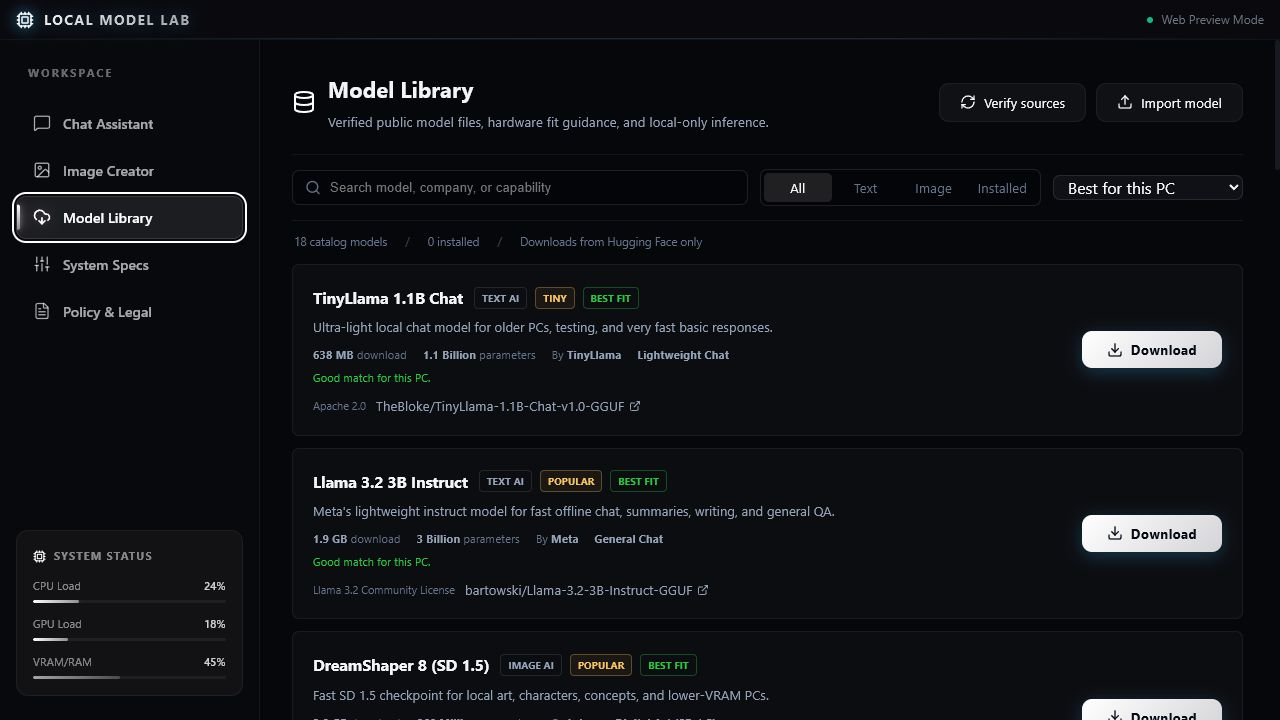
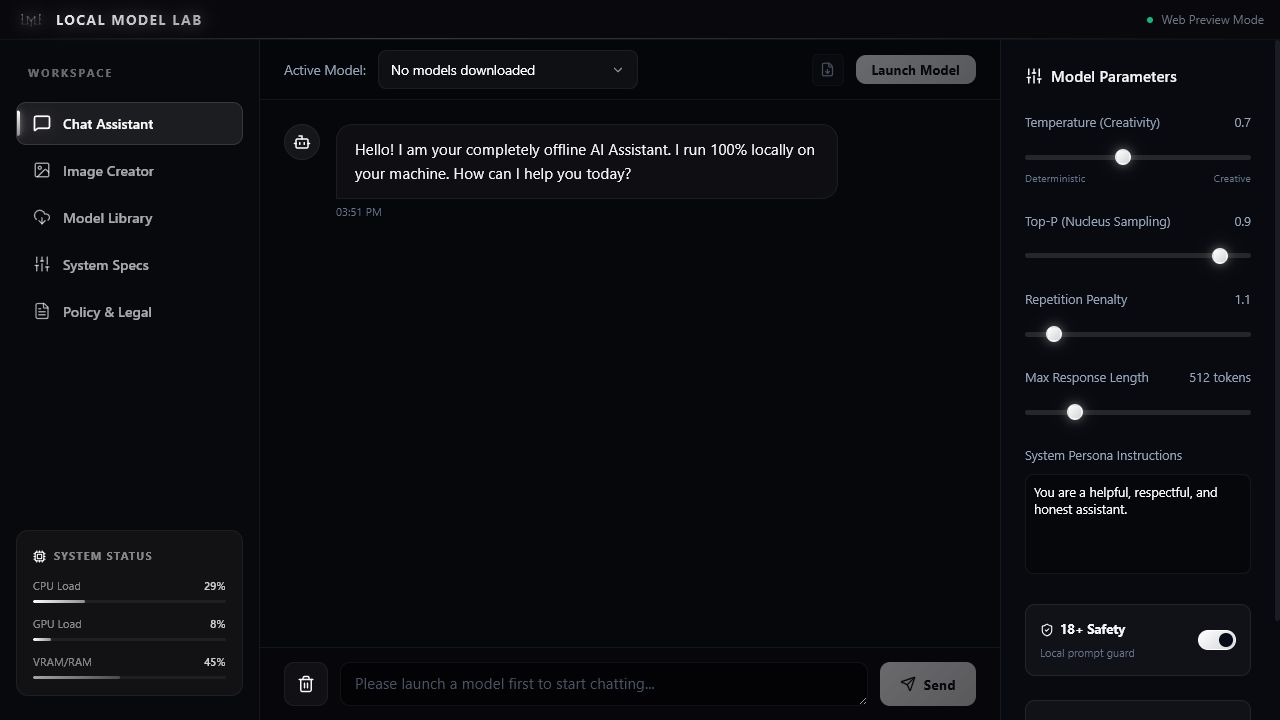
Apply final Local Model Lab branding

diff --git a/acceptable-use.html b/acceptable-use.html
@@ -1,5 +1,5 @@
-<!doctype html><html lang="en"><head><meta charset="utf-8"><meta name="viewport" content="width=device-width, initial-scale=1"><meta name="description" content="Local Model Lab Acceptable Use Policy."><link rel="icon" href="assets/favicon.svg" type="image/svg+xml"><link rel="stylesheet" href="assets/styles.css"><title>Acceptable Use Policy | Local Model Lab</title></head><body>
-<a class="skip-link" href="#main">Skip to content</a><header class="site-header"><a class="brand" href="index.html"><span class="brand-mark">LM</span><span>Local Model Lab</span></a><button class="menu-button" type="button" aria-expanded="false" aria-controls="site-nav">Menu</button><nav id="site-nav" class="site-nav"><a href="index.html#features">Features</a><a href="privacy.html">Privacy</a><a href="terms.html">Terms</a><a href="licenses.html">Licenses</a></nav></header>
+<!doctype html><html lang="en"><head><meta charset="utf-8"><meta name="viewport" content="width=device-width, initial-scale=1"><meta name="description" content="Local Model Lab Acceptable Use Policy."><link rel="icon" href="assets/favicon.ico" sizes="any"><link rel="apple-touch-icon" href="assets/logo.png"><link rel="stylesheet" href="assets/styles.css"><title>Acceptable Use Policy | Local Model Lab</title></head><body>
+<a class="skip-link" href="#main">Skip to content</a><header class="site-header"><a class="brand" href="index.html"><img class="brand-mark" src="assets/logo.png" alt=""><span>Local Model Lab</span></a><button class="menu-button" type="button" aria-expanded="false" aria-controls="site-nav">Menu</button><nav id="site-nav" class="site-nav"><a href="index.html#features">Features</a><a href="privacy.html">Privacy</a><a href="terms.html">Terms</a><a href="licenses.html">Licenses</a></nav></header>
 <main id="main"><header class="legal-hero"><p class="eyebrow">Safety</p><h1>Acceptable Use Policy</h1><p>Running a model locally does not remove legal or ethical responsibilities. These rules apply even when a safety switch is disabled.</p><div class="legal-meta"><span>Effective July 9, 2026</span><span>Version 1.0</span></div></header>
 <div class="legal-layout"><nav class="legal-toc" aria-label="On this page"><a href="#principles">Principles</a><a href="#prohibited">Prohibited use</a><a href="#sexual">Sexual content</a><a href="#cyber">Cyber safety</a><a href="#high-impact">High-impact decisions</a><a href="#rights">Rights and identity</a><a href="#controls">Safety controls</a><a href="#reporting">Reporting</a></nav>
 <article class="legal-copy">
@@ -12,4 +12,4 @@
 <h2 id="controls">7. Safety controls and limitations</h2><p>The local prompt guard is a limited keyword and pattern-based control. It can miss harmful requests and may occasionally block benign ones. Model behavior varies. Keep the guard enabled when the device is shared, supervise younger users, review output, and apply stricter controls where your context requires them.</p><p class="notice">A model described as uncensored or abliterated still remains subject to this policy, applicable law, and its upstream license.</p>
 <h2 id="reporting">8. Reporting concerns</h2><p>Report security defects, broken catalog links, license conflicts, or policy issues through the official GitHub repository after publication. Do not upload illegal content, private prompts, personal data, credentials, or sensitive paths to a public issue. Catalog entries may be removed while a report is reviewed.</p>
 </article></div></main>
-<footer class="site-footer"><div><a class="brand" href="index.html"><span class="brand-mark">LM</span><span>Local Model Lab</span></a><p>Local control comes with local responsibility.</p></div><nav><a href="privacy.html">Privacy</a><a href="terms.html">Terms</a><a href="acceptable-use.html">Acceptable Use</a><a href="licenses.html">Licenses</a></nav><p class="copyright">Copyright 2026 Local Model Lab. Third-party models retain their own licenses.</p></footer><script src="assets/site.js" defer></script></body></html>
+<footer class="site-footer"><div><a class="brand" href="index.html"><img class="brand-mark" src="assets/logo.png" alt=""><span>Local Model Lab</span></a><p>Local control comes with local responsibility.</p></div><nav><a href="privacy.html">Privacy</a><a href="terms.html">Terms</a><a href="acceptable-use.html">Acceptable Use</a><a href="licenses.html">Licenses</a></nav><p class="copyright">Copyright 2026 Local Model Lab. Third-party models retain their own licenses.</p></footer><script src="assets/site.js" defer></script></body></html>

diff --git a/index.html b/index.html
@@ -8,14 +8,14 @@
   <meta property="og:title" content="Local Model Lab">
   <meta property="og:description" content="Run AI locally. Private chat, image generation, and verified model downloads for Windows.">
   <meta property="og:type" content="website">
-  <link rel="icon" href="assets/favicon.svg" type="image/svg+xml">
+  <link rel="icon" href="assets/favicon.ico" sizes="any"><link rel="apple-touch-icon" href="assets/logo.png">
   <link rel="stylesheet" href="assets/styles.css">
   <title>Local Model Lab | Run AI locally</title>
 </head>
 <body>
   <a class="skip-link" href="#main">Skip to content</a>
   <header class="site-header">
-    <a class="brand" href="index.html" aria-label="Local Model Lab home"><span class="brand-mark">LM</span><span>Local Model Lab</span></a>
+    <a class="brand" href="index.html" aria-label="Local Model Lab home"><img class="brand-mark" src="assets/logo.png" alt=""><span>Local Model Lab</span></a>
     <button class="menu-button" type="button" aria-expanded="false" aria-controls="site-nav">Menu</button>
     <nav id="site-nav" class="site-nav" aria-label="Primary navigation">
       <a href="#experience">Experience</a>
@@ -116,7 +116,7 @@
   </main>
 
   <footer class="site-footer">
-    <div><a class="brand" href="index.html"><span class="brand-mark">LM</span><span>Local Model Lab</span></a><p>Run AI locally.</p></div>
+    <div><a class="brand" href="index.html"><img class="brand-mark" src="assets/logo.png" alt=""><span>Local Model Lab</span></a><p>Run AI locally.</p></div>
     <nav aria-label="Legal links"><a href="privacy.html">Privacy</a><a href="terms.html">Terms</a><a href="acceptable-use.html">Acceptable Use</a><a href="licenses.html">Licenses</a></nav>
     <p class="copyright">Copyright 2026 Local Model Lab. Third-party models retain their own licenses.</p>
   </footer>

diff --git a/licenses.html b/licenses.html
@@ -1,5 +1,5 @@
-<!doctype html><html lang="en"><head><meta charset="utf-8"><meta name="viewport" content="width=device-width, initial-scale=1"><meta name="description" content="Third-party model and software notices for Local Model Lab."><link rel="icon" href="assets/favicon.svg" type="image/svg+xml"><link rel="stylesheet" href="assets/styles.css"><title>Model Licenses | Local Model Lab</title></head><body>
-<a class="skip-link" href="#main">Skip to content</a><header class="site-header"><a class="brand" href="index.html"><span class="brand-mark">LM</span><span>Local Model Lab</span></a><button class="menu-button" type="button" aria-expanded="false" aria-controls="site-nav">Menu</button><nav id="site-nav" class="site-nav"><a href="index.html#models">Models</a><a href="privacy.html">Privacy</a><a href="terms.html">Terms</a><a href="acceptable-use.html">Safety</a></nav></header>
+<!doctype html><html lang="en"><head><meta charset="utf-8"><meta name="viewport" content="width=device-width, initial-scale=1"><meta name="description" content="Third-party model and software notices for Local Model Lab."><link rel="icon" href="assets/favicon.ico" sizes="any"><link rel="apple-touch-icon" href="assets/logo.png"><link rel="stylesheet" href="assets/styles.css"><title>Model Licenses | Local Model Lab</title></head><body>
+<a class="skip-link" href="#main">Skip to content</a><header class="site-header"><a class="brand" href="index.html"><img class="brand-mark" src="assets/logo.png" alt=""><span>Local Model Lab</span></a><button class="menu-button" type="button" aria-expanded="false" aria-controls="site-nav">Menu</button><nav id="site-nav" class="site-nav"><a href="index.html#models">Models</a><a href="privacy.html">Privacy</a><a href="terms.html">Terms</a><a href="acceptable-use.html">Safety</a></nav></header>
 <main id="main"><header class="legal-hero"><p class="eyebrow">Third-party notices</p><h1>Model Licenses</h1><p>Local Model Lab links to independently published model weights. The upstream license and repository card control every download and use.</p><div class="legal-meta"><span>Catalog reviewed July 9, 2026</span><span>Verify upstream terms before use</span></div></header>
 <div class="legal-layout"><nav class="legal-toc" aria-label="On this page"><a href="#important">Important notice</a><a href="#text-models">Text models</a><a href="#image-models">Image models</a><a href="#software">Software</a><a href="#trademarks">Trademarks</a></nav>
 <article class="legal-copy">
@@ -29,4 +29,4 @@
 <h2 id="software">4. Software notices</h2><p>Local Model Lab includes or interoperates with software maintained by independent projects, including Electron and Chromium, React, Vite, TypeScript, llama.cpp, node-llama-cpp, stable-diffusion.cpp, Axios, Lucide, and their transitive dependencies. Their copyrights and licenses remain with their respective authors. Packaged releases must retain notices required by those licenses.</p><ul><li>Electron, React, Vite, TypeScript, llama.cpp, node-llama-cpp, Axios: permissive open-source licenses as distributed in their packages.</li><li>Lucide icons: ISC license.</li><li>Chromium components: multiple open-source licenses listed in the packaged Electron notices.</li><li>stable-diffusion.cpp: independently distributed backend; review its repository license and the licenses of models used with it.</li></ul>
 <h2 id="trademarks">5. Names and trademarks</h2><p>Hugging Face, Meta, Llama, Qwen, Alibaba, Google, Gemma, Microsoft, Phi, Mistral, Stability AI, Stable Diffusion, FLUX, Black Forest Labs, Electron, React, GitHub, and other names may be trademarks of their respective owners. Their appearance identifies compatibility or source and does not imply sponsorship.</p>
 </article></div></main>
-<footer class="site-footer"><div><a class="brand" href="index.html"><span class="brand-mark">LM</span><span>Local Model Lab</span></a><p>Third-party terms stay visible.</p></div><nav><a href="privacy.html">Privacy</a><a href="terms.html">Terms</a><a href="acceptable-use.html">Acceptable Use</a><a href="licenses.html">Licenses</a></nav><p class="copyright">Copyright 2026 Local Model Lab. Third-party models retain their own licenses.</p></footer><script src="assets/site.js" defer></script></body></html>
+<footer class="site-footer"><div><a class="brand" href="index.html"><img class="brand-mark" src="assets/logo.png" alt=""><span>Local Model Lab</span></a><p>Third-party terms stay visible.</p></div><nav><a href="privacy.html">Privacy</a><a href="terms.html">Terms</a><a href="acceptable-use.html">Acceptable Use</a><a href="licenses.html">Licenses</a></nav><p class="copyright">Copyright 2026 Local Model Lab. Third-party models retain their own licenses.</p></footer><script src="assets/site.js" defer></script></body></html>

diff --git a/privacy.html b/privacy.html
@@ -1,5 +1,5 @@
-<!doctype html><html lang="en"><head><meta charset="utf-8"><meta name="viewport" content="width=device-width, initial-scale=1"><meta name="description" content="Local Model Lab Privacy Policy."><link rel="icon" href="assets/favicon.svg" type="image/svg+xml"><link rel="stylesheet" href="assets/styles.css"><title>Privacy Policy | Local Model Lab</title></head><body>
-<a class="skip-link" href="#main">Skip to content</a><header class="site-header"><a class="brand" href="index.html"><span class="brand-mark">LM</span><span>Local Model Lab</span></a><button class="menu-button" type="button" aria-expanded="false" aria-controls="site-nav">Menu</button><nav id="site-nav" class="site-nav"><a href="index.html#features">Features</a><a href="index.html#models">Models</a><a href="terms.html">Terms</a><a href="acceptable-use.html">Safety</a><a href="licenses.html">Licenses</a></nav></header>
+<!doctype html><html lang="en"><head><meta charset="utf-8"><meta name="viewport" content="width=device-width, initial-scale=1"><meta name="description" content="Local Model Lab Privacy Policy."><link rel="icon" href="assets/favicon.ico" sizes="any"><link rel="apple-touch-icon" href="assets/logo.png"><link rel="stylesheet" href="assets/styles.css"><title>Privacy Policy | Local Model Lab</title></head><body>
+<a class="skip-link" href="#main">Skip to content</a><header class="site-header"><a class="brand" href="index.html"><img class="brand-mark" src="assets/logo.png" alt=""><span>Local Model Lab</span></a><button class="menu-button" type="button" aria-expanded="false" aria-controls="site-nav">Menu</button><nav id="site-nav" class="site-nav"><a href="index.html#features">Features</a><a href="index.html#models">Models</a><a href="terms.html">Terms</a><a href="acceptable-use.html">Safety</a><a href="licenses.html">Licenses</a></nav></header>
 <main id="main"><header class="legal-hero"><p class="eyebrow">Policy</p><h1>Privacy Policy</h1><p>Local Model Lab is built around local inference. This policy explains what stays on your computer, which network requests you initiate, and what you can delete.</p><div class="legal-meta"><span>Effective July 9, 2026</span><span>Version 1.0</span></div></header>
 <div class="legal-layout"><nav class="legal-toc" aria-label="On this page"><a href="#scope">Scope</a><a href="#local">Local processing</a><a href="#network">Network activity</a><a href="#storage">Storage</a><a href="#third-parties">Third parties</a><a href="#security">Security</a><a href="#choices">Your choices</a><a href="#children">Children</a><a href="#changes">Changes and contact</a></nav>
 <article class="legal-copy">
@@ -13,4 +13,4 @@
 <h2 id="children">8. Children</h2><p>Local Model Lab is not directed to children. Users must satisfy the minimum age required by applicable law and by any selected model license. Sexual content involving minors is prohibited and subject to a hard local safety block.</p>
 <h2 id="changes">9. Changes and contact</h2><p>Material changes will be posted with an updated effective date. Until a public support email is configured, submit privacy and security requests through the official GitHub repository issue tracker after publication. Do not place personal data, prompts, or sensitive file paths in a public issue.</p>
 </article></div></main>
-<footer class="site-footer"><div><a class="brand" href="index.html"><span class="brand-mark">LM</span><span>Local Model Lab</span></a><p>Private by architecture.</p></div><nav><a href="privacy.html">Privacy</a><a href="terms.html">Terms</a><a href="acceptable-use.html">Acceptable Use</a><a href="licenses.html">Licenses</a></nav><p class="copyright">Copyright 2026 Local Model Lab. Third-party models retain their own licenses.</p></footer><script src="assets/site.js" defer></script></body></html>
+<footer class="site-footer"><div><a class="brand" href="index.html"><img class="brand-mark" src="assets/logo.png" alt=""><span>Local Model Lab</span></a><p>Private by architecture.</p></div><nav><a href="privacy.html">Privacy</a><a href="terms.html">Terms</a><a href="acceptable-use.html">Acceptable Use</a><a href="licenses.html">Licenses</a></nav><p class="copyright">Copyright 2026 Local Model Lab. Third-party models retain their own licenses.</p></footer><script src="assets/site.js" defer></script></body></html>

diff --git a/terms.html b/terms.html
@@ -1,5 +1,5 @@
-<!doctype html><html lang="en"><head><meta charset="utf-8"><meta name="viewport" content="width=device-width, initial-scale=1"><meta name="description" content="Local Model Lab Terms of Use."><link rel="icon" href="assets/favicon.svg" type="image/svg+xml"><link rel="stylesheet" href="assets/styles.css"><title>Terms of Use | Local Model Lab</title></head><body>
-<a class="skip-link" href="#main">Skip to content</a><header class="site-header"><a class="brand" href="index.html"><span class="brand-mark">LM</span><span>Local Model Lab</span></a><button class="menu-button" type="button" aria-expanded="false" aria-controls="site-nav">Menu</button><nav id="site-nav" class="site-nav"><a href="index.html#features">Features</a><a href="privacy.html">Privacy</a><a href="acceptable-use.html">Safety</a><a href="licenses.html">Licenses</a></nav></header>
+<!doctype html><html lang="en"><head><meta charset="utf-8"><meta name="viewport" content="width=device-width, initial-scale=1"><meta name="description" content="Local Model Lab Terms of Use."><link rel="icon" href="assets/favicon.ico" sizes="any"><link rel="apple-touch-icon" href="assets/logo.png"><link rel="stylesheet" href="assets/styles.css"><title>Terms of Use | Local Model Lab</title></head><body>
+<a class="skip-link" href="#main">Skip to content</a><header class="site-header"><a class="brand" href="index.html"><img class="brand-mark" src="assets/logo.png" alt=""><span>Local Model Lab</span></a><button class="menu-button" type="button" aria-expanded="false" aria-controls="site-nav">Menu</button><nav id="site-nav" class="site-nav"><a href="index.html#features">Features</a><a href="privacy.html">Privacy</a><a href="acceptable-use.html">Safety</a><a href="licenses.html">Licenses</a></nav></header>
 <main id="main"><header class="legal-hero"><p class="eyebrow">Legal</p><h1>Terms of Use</h1><p>These terms set the ground rules for using Local Model Lab, third-party models, and output created on your own hardware.</p><div class="legal-meta"><span>Effective July 9, 2026</span><span>Version 1.0</span></div></header>
 <div class="legal-layout"><nav class="legal-toc" aria-label="On this page"><a href="#agreement">Agreement</a><a href="#software">Software</a><a href="#responsibility">Responsibilities</a><a href="#models">Third-party models</a><a href="#output">Output</a><a href="#updates">Updates</a><a href="#warranty">Warranty</a><a href="#liability">Liability</a><a href="#general">General</a></nav>
 <article class="legal-copy">
@@ -13,4 +13,4 @@
 <h2 id="liability">8. Limitation of liability</h2><p>To the maximum extent permitted by law, Local Model Lab's maintainers and contributors will not be liable for indirect, incidental, special, consequential, exemplary, or punitive damages; loss of data, profits, business, reputation, or opportunity; model output; third-party files; or unauthorized use. Where liability cannot be excluded, it is limited to the minimum amount required by applicable law.</p>
 <h2 id="general">9. General terms</h2><p>If a provision is unenforceable, the remaining provisions continue in effect. Failure to enforce a provision is not a waiver. These Terms do not override mandatory rights under applicable law. Questions should be submitted through the official GitHub repository after publication, without including private or sensitive information.</p>
 </article></div></main>
-<footer class="site-footer"><div><a class="brand" href="index.html"><span class="brand-mark">LM</span><span>Local Model Lab</span></a><p>Local AI, used responsibly.</p></div><nav><a href="privacy.html">Privacy</a><a href="terms.html">Terms</a><a href="acceptable-use.html">Acceptable Use</a><a href="licenses.html">Licenses</a></nav><p class="copyright">Copyright 2026 Local Model Lab. Third-party models retain their own licenses.</p></footer><script src="assets/site.js" defer></script></body></html>
+<footer class="site-footer"><div><a class="brand" href="index.html"><img class="brand-mark" src="assets/logo.png" alt=""><span>Local Model Lab</span></a><p>Local AI, used responsibly.</p></div><nav><a href="privacy.html">Privacy</a><a href="terms.html">Terms</a><a href="acceptable-use.html">Acceptable Use</a><a href="licenses.html">Licenses</a></nav><p class="copyright">Copyright 2026 Local Model Lab. Third-party models retain their own licenses.</p></footer><script src="assets/site.js" defer></script></body></html>

diff --git a/assets/styles.css b/assets/styles.css
@@ -9,7 +9,7 @@ img { display:block; max-width:100%; }
 .skip-link:focus { transform:none; }
 .site-header { height:66px; position:sticky; top:0; z-index:20; display:flex; align-items:center; justify-content:space-between; gap:24px; padding:0 max(22px,calc((100vw - var(--max))/2)); border-bottom:1px solid var(--line); background:rgba(11,12,13,.94); backdrop-filter:blur(14px); }
 .brand { display:inline-flex; align-items:center; gap:10px; font-size:.88rem; font-weight:760; white-space:nowrap; }
-.brand-mark { width:32px; height:28px; display:grid; place-items:center; border:1px solid #4a5048; border-radius:4px; color:var(--accent); font-size:.65rem; font-weight:900; }
+.brand-mark { width:44px; height:30px; object-fit:contain; filter:drop-shadow(0 0 5px rgba(255,255,255,.18)); }
 .site-nav { display:flex; align-items:center; gap:25px; color:var(--muted); font-size:.76rem; }
 .site-nav a:hover,.site-nav a:focus-visible { color:var(--text); }
 .nav-download { padding:7px 12px; border:1px solid #525852; border-radius:4px; color:var(--text)!important; }